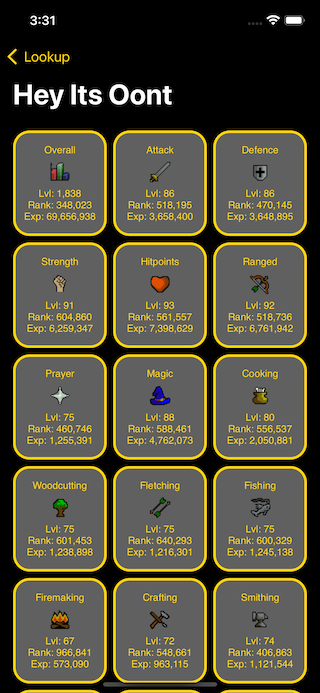
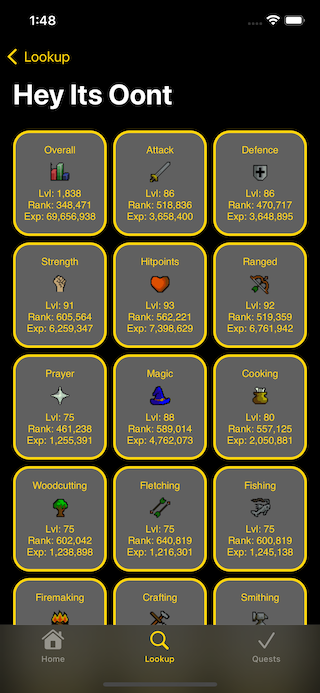
added bottom navbar (tabview), updated readme

diff --git a/RunePro/Views/LookupView.swift b/RunePro/Views/LookupView.swift
@@ -12,6 +12,7 @@ struct LookupView: View {
     @State var username = ""
     @State var dataLoaded: Bool? = false
     @State var isLoading = false
+    @State var playerNotFound = false
     
     var body: some View {
         NavigationView {
@@ -38,6 +39,7 @@ struct LookupView: View {
                         }
                         .padding()
                     }
+                    
                     NavigationLink(destination: StatTileView(player: player)
                                     .transition(.move(edge: .leading).animation(.default))
                                    , tag: true, selection: $dataLoaded, label: {
@@ -52,12 +54,18 @@ struct LookupView: View {
                                 self.fetchPlayerData()
                             }
                     })
+                        .alert(isPresented: $playerNotFound) {
+                            UIView.appearance(whenContainedInInstancesOf: [UIAlertController.self]).backgroundColor = .darkGray
+                            UIView.appearance(whenContainedInInstancesOf: [UIAlertController.self]).tintColor = .red
+                            return Alert(title: Text("Player not found"), message: Text("Player was not found on the HiScores."), dismissButton: .default(Text("OK")))
+                        }
                         .navigationBarTitle("Lookup")
                         .navigationBarHidden(true)
                 }
                 
             }
-        }.preferredColorScheme(.dark)
+        }
+        .preferredColorScheme(.dark)
     }
     
     func fetchPlayerData() {
@@ -66,7 +74,7 @@ struct LookupView: View {
             isLoading = true
             let playerData = await player.getPlayerStats()
             player.updateStats(playerData)
-            player.parsePlayerStats()
+            playerNotFound = player.parsePlayerStats()
             dataLoaded = true
             isLoading = false
         }

diff --git a/RunePro/Views/SearchField.swift b/RunePro/Views/SearchField.swift
@@ -9,27 +9,28 @@ import SwiftUI
 
 struct SearchField: View {
     @State var text = ""
-
+    
     var body: some View {
-            ZStack {
-                Color.white.ignoresSafeArea()
-                VStack(alignment: .leading) {
-                    Text("HiScore Lookup")
-                        .font(.title2)
-                        .foregroundColor(.yellow)
-                    HStack {
-                        Image(systemName: "magnifyingglass")
-                        VStack {
-                            TextField("Username", text: $text)
-                                Divider()
-                                .frame(height: 1)
-                                .padding(.horizontal, 30)
-                                .background(.yellow)
-                        }
+        ZStack {
+            Color.white.ignoresSafeArea()
+            VStack(alignment: .leading) {
+                Text("HiScore Lookup")
+                    .font(.title2)
+                    .foregroundColor(.yellow)
+                HStack {
+                    Image(systemName: "magnifyingglass")
+                    VStack {
+                        TextField("Username", text: $text)
+                            .disableAutocorrection(true)
+                        Divider()
+                            .frame(height: 1)
+                            .padding(.horizontal, 30)
+                            .background(.yellow)
                     }
                 }
             }
         }
+    }
 }
 
 struct SearchField_Previews: PreviewProvider {

diff --git a/RunePro/Views/ContentView.swift b/RunePro/Views/ContentView.swift
@@ -8,8 +8,43 @@
 import SwiftUI
 
 struct ContentView: View {
+    @State private var lookupHome = UUID()
+    @State private var tabSelection = 1
+    @State private var tappedTwice = false
+    
+    var handler: Binding<Int> { Binding(
+        get: { self.tabSelection },
+        set: {
+            if $0 == self.tabSelection {
+                tappedTwice = true
+            }
+            self.tabSelection = $0
+        }
+    )}
+    
     var body: some View {
-        LookupView()
+        TabView(selection: handler) {
+            HomeView()
+                .tabItem {
+                    Label("Home", systemImage: "house.fill")
+                }
+            
+            LookupView()
+                .id(lookupHome)
+                .onChange(of: tappedTwice, perform: { tappedTwice in
+                    guard tappedTwice else { return }
+                    lookupHome = UUID()
+                    self.tappedTwice = false
+                })
+                .tabItem {
+                    Label("Lookup", systemImage: "magnifyingglass")
+                }.tag(1)
+            
+            SearchField()
+                .tabItem {
+                    Label("Quests", systemImage: "checkmark")
+                }
+        }
     }
 }
 

diff --git a/RunePro/ViewModels/PlayerViewModel.swift b/RunePro/ViewModels/PlayerViewModel.swift
@@ -39,9 +39,10 @@ import SwiftUI
         player.playerData = stats
     }
     
-    func parsePlayerStats() {
+    func parsePlayerStats() -> Bool {
+        print("Parsing...")
         if (self.name == "#notfound") {
-            return
+            return true
         }
         
         let lines = self.stats.components(separatedBy: "\n")
@@ -68,6 +69,7 @@ import SwiftUI
             }
             setSkill(index: i, rank: Int(rank)!, level: Int(level)!, xp: Int(xp)!)
         }
+        return false
     }
     
     func setSkill(index: Int, rank: Int, level: Int, xp: Int) {

diff --git a/RunePro/Views/HomeView.swift b/RunePro/Views/HomeView.swift
@@ -1,0 +1,20 @@
+//
+//  HomeView.swift
+//  RunePro
+//
+//  Created by Hunter Green on 3/8/22.
+//
+
+import SwiftUI
+
+struct HomeView: View {
+    var body: some View {
+        Text("Coming Soon")
+    }
+}
+
+struct HomeView_Previews: PreviewProvider {
+    static var previews: some View {
+        HomeView()
+    }
+}

diff --git a/README.md b/README.md
@@ -1,14 +1,15 @@
 # RunePro
-	RunePro is an app targeted towards players of Old School Runescape.
+	RunePro is an app targeted towards players of Old School Runescape. I mostly work on it during the weekends or late nights as you can see by the timestamps in the screenshots.
 
 ## Features
 	Currently RunePro features a HiScore lookup for users to display their stats.
-	New features are being implemented.
+	New features are being implemented, such as tracking for quests.
 
 # Screenshots
 
-## User Lookup
-![Alt text](/RunePro/Screenshots/Lookup.gif?raw=true)
-
 ## User Stats
 ![Alt text](/RunePro/Screenshots/StatScreen.png?raw=true)
+
+## User Lookup
+![Alt text](/RunePro/Screenshots/Lookup.png?raw=true)
+![Alt text](/RunePro/Screenshots/Loading.png?raw=true)
